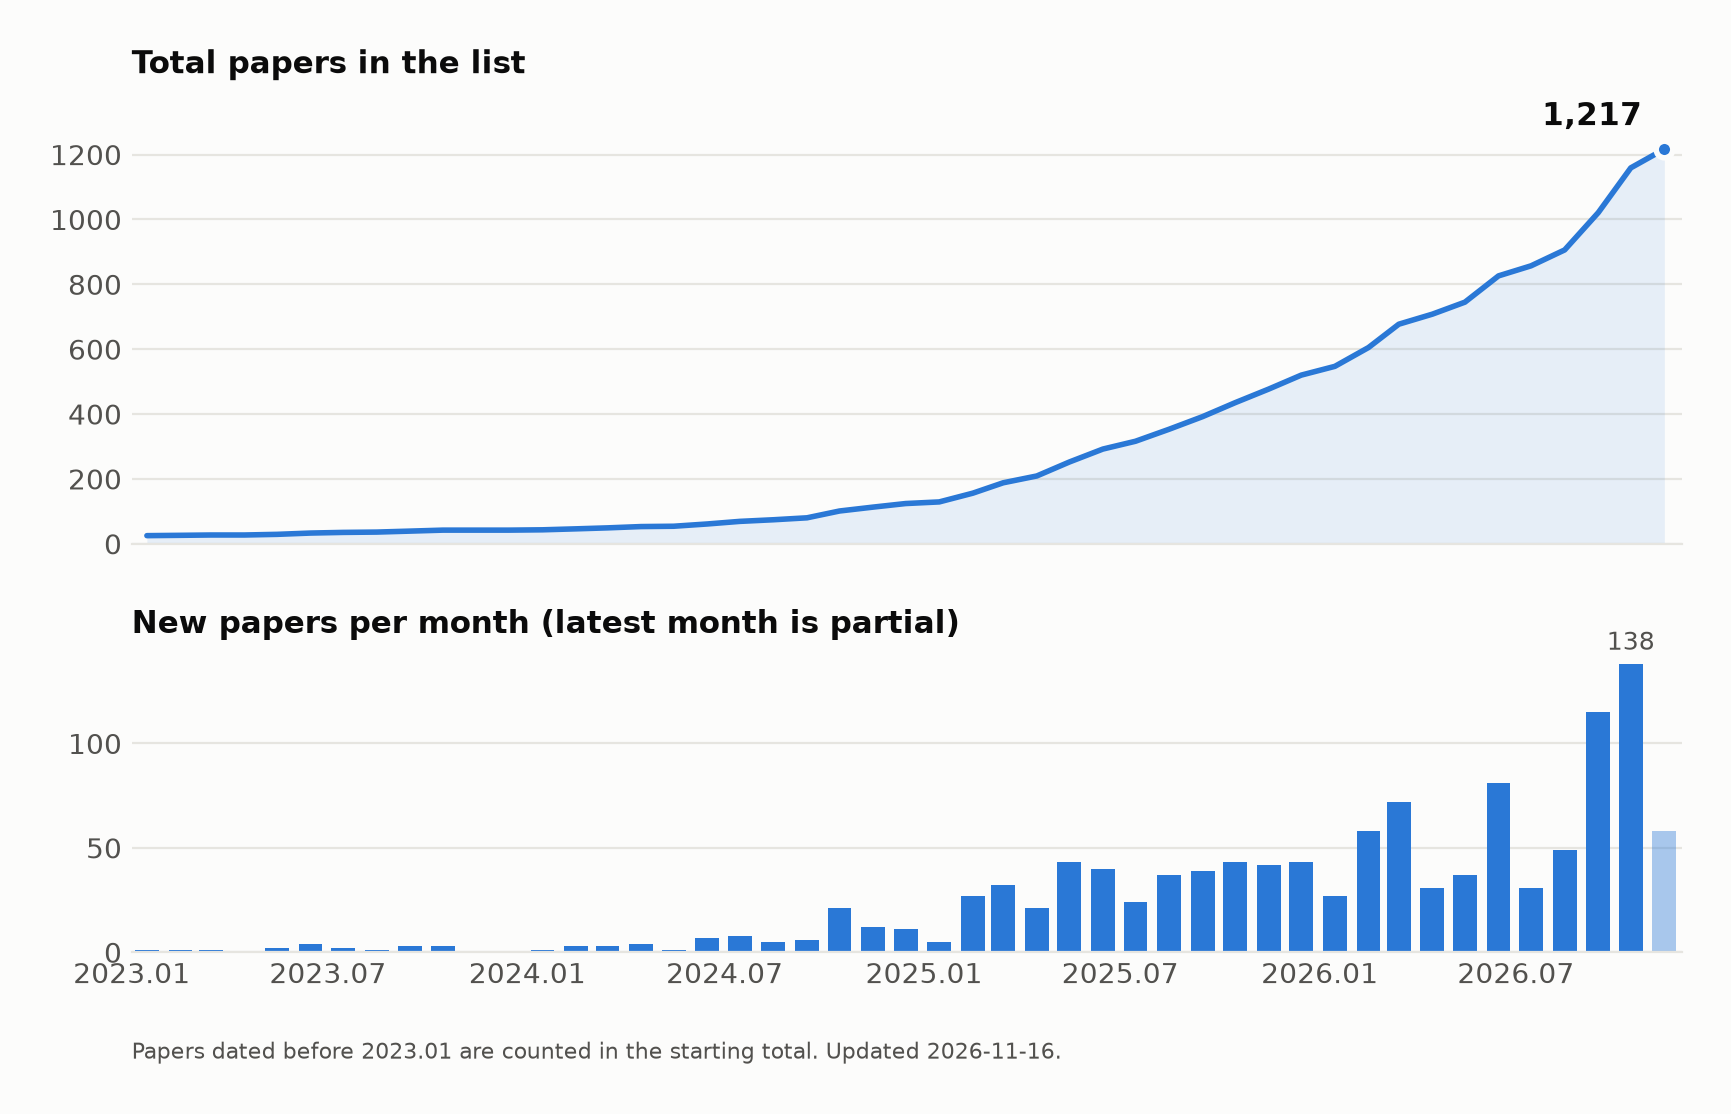
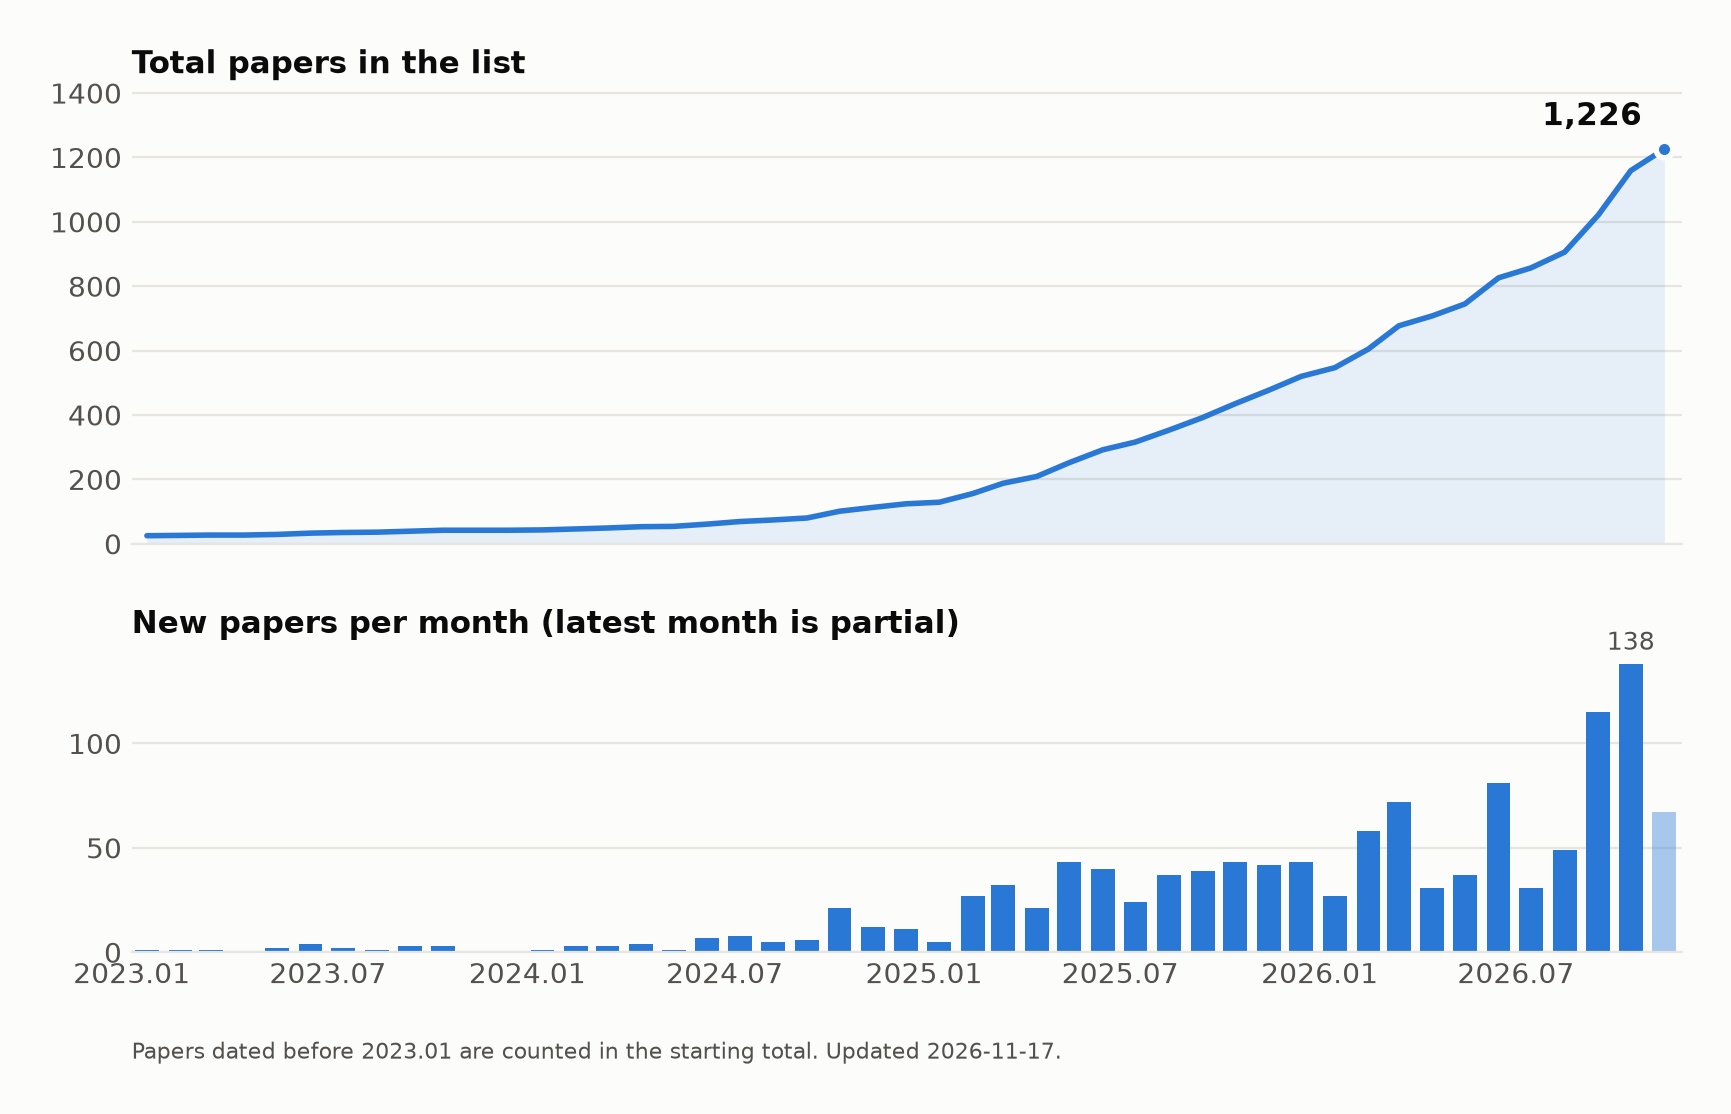
Add 9 papers from arXiv (2026-11-17)

diff --git a/README.md b/README.md
@@ -28,6 +28,9 @@ Feel free to pull a request for new papers/codes about humanoid robot learning.
 ---
 
 ## Loco-Manipulation and Whole-Body-Control
+- [arXiv 2026.11.16](https://arxiv.org/abs/2611.20791), QTOP: Scaling Humanoid Motion Tracking with Quantile Critics
+- [arXiv 2026.11.16](https://arxiv.org/abs/2611.20452), XMimic and XSoma: Learning Humanoid Motion Tracking and Locomotion in Under a Minute
+- [arXiv 2026.11.14](https://arxiv.org/abs/2611.19196), Ego2Sim2Humanoid: Agentic Real-to-Sim for Learning Loco-Manipulation VLAs without Robot Demonstrations, [website](https://robonana.github.io/ego2sim2humanoid/)
 - [arXiv 2026.11.12](https://arxiv.org/abs/2611.17142), FORGE: Force-Aware Multi-Granularity Control for Efficient Humanoid Loco-Manipulation, [website](https://bb0928.github.io/forge/)
 - 🌟[arXiv 2026.11.12](https://arxiv.org/abs/2611.16422), BlinkMimic: Training a Humanoid Motion Tracker in Minutes on a Single GPU, [code](https://github.com/fuyichen0725/blinkmimic)
 - [arXiv 2026.11.12](https://arxiv.org/abs/2611.16188), PERA: Plug-in Experts for Robotic Actions in Continual Whole-Body Control
@@ -551,6 +554,7 @@ Feel free to pull a request for new papers/codes about humanoid robot learning.
 - [2024.08](https://la.disneyresearch.com/publication/vmp-versatile-motion-priors-for-robustly-tracking-motion-on-physical-characters/), VMP: Versatile Motion Priors for Robustly Tracking Motion on Physical Characters, [website](https://la.disneyresearch.com/publication/vmp-versatile-motion-priors-for-robustly-tracking-motion-on-physical-characters/)
 - [2024.07](https://la.disneyresearch.com/publication/robot-motion-diffusion-model-motion-generation-for-robotic-characters/), Robot Motion Diffusion Model: Motion Generation for Robotic Characters,
 ## Manipulation
+- [arXiv 2026.11.13](https://arxiv.org/abs/2611.18976), TMA: Sim-to-Real Forceful Humanoid Manipulation via Tactile-Driven Motor Adaptation
 - [arXiv 2026.11.13](https://arxiv.org/abs/2611.18491), When Will You Hand It Over? A Hidden Start Delay Makes Self-Play Handover Robust to Unfamiliar Partners
 - [Humanoids 2026](https://arxiv.org/abs/2611.12409), Bridging Task Planning and Execution for Language-Conditioned Bimanual Manipulation
 - [arXiv 2026.11](https://arxiv.org/abs/2611.11981), Thermo-VLA: A Thermal-Aware Vision-Language-Action Model with Gated Residual Modulation for Robotic Manipulation
@@ -660,6 +664,7 @@ Feel free to pull a request for new papers/codes about humanoid robot learning.
 - [1999](https://www.cell.com/trends/cognitive-sciences/abstract/S1364-6613(99)01327-3), Is imitation learning the route to humanoid robots?
 
 ## Teleoperation
+- [arXiv 2026.11.15](https://arxiv.org/abs/2611.19998), MoViC: Real-Time Humanoid Whole-Body Control from Monocular Video Streams, [website](https://movicproject.github.io/)
 - [arXiv 2026.10](https://arxiv.org/abs/2610.29903), HuMiT: Low-Latency Whole-Body Humanoid Teleoperation via Compact Reference Tracking, [website](https://xiaohu-art.github.io/Track/)
 - [arXiv 2026.10](https://arxiv.org/abs/2610.24257), Evaluating Lightweight Contact Feedback in Dual-Operator Collaborative Humanoid Teleoperation, [website](https://xrt-teleop.github.io)
 - [arXiv 2026.10](https://arxiv.org/abs/2610.07891), Beyond Retargeting: Low-Latency and Robust Humanoid Whole-Body Teleoperation with Learned Atomic Motion Primitives
@@ -724,6 +729,7 @@ Feel free to pull a request for new papers/codes about humanoid robot learning.
 
 
 ## Locomotion
+- [arXiv 2026.11.16](https://arxiv.org/abs/2611.20888), Driving the Style: Velocity-Conditioned Whole-Body Control from Motion Demonstrations
 - [arXiv 2026.11.13](https://arxiv.org/abs/2611.18003), Reusing Locomotion Training Recipes Across Humanoids via Body-Aligned Virtual Joints
 - [arXiv 2026.11.12](https://arxiv.org/abs/2611.16346), MotionSkill: From Bipedal Motion Video to Control across Embodiments
 - [arXiv 2026.11](https://arxiv.org/abs/2611.13929), ReACT: Reflection-Consistent Modulation and Cross-Load Consistency for Humanoid Velocity Tracking Under Asymmetric Loads
@@ -1024,6 +1030,7 @@ Feel free to pull a request for new papers/codes about humanoid robot learning.
 
 
 ## Sim-to-Real
+- [arXiv 2026.11.14](https://arxiv.org/abs/2611.19616), Towards Probabilistically Safe Reinforcement Learning: Theory and Deployment on Humanoid and Aerial Robots
 - [arXiv 2026.11.11](https://arxiv.org/abs/2611.15524), Reading the Table: Sim-to-Real Game State Detection for the Chef's Hat Card Game
 - [arXiv 2026.10](https://arxiv.org/abs/2610.32277), Delay Randomization Widens the Delay Margin of Learned Humanoid Motion Trackers
 - [arXiv 2026.10](https://arxiv.org/abs/2610.18991), Contact-UAN: Unsupervised Actuator Networks as a Residual World Model for Humanoid Control, [website](https://contact-uan.csail.mit.edu/)
@@ -1051,6 +1058,7 @@ Feel free to pull a request for new papers/codes about humanoid robot learning.
 - [arXiv 2019.01](https://arxiv.org/abs/1901.08652), Learning Agile and Dynamic Motor Skills for Legged Robots
 
 ## Hardware Design
+- [arXiv 2026.11.16](https://arxiv.org/abs/2611.20950), ROSE: A Shared Cross-Embodiment Facial-Motion Latent Space for Humanoid Robot Expression
 - [arXiv 2026.11](https://arxiv.org/abs/2611.05302), PACT: Pose-Robust Actuation Co-Design for Tendon-Driven Robotic Hands
 - [RA-L 2026](https://arxiv.org/abs/2611.04334), RAIPAL: A Powerful and Agile Humanoid Arm for Human Tasks
 - [arXiv 2026.10](https://arxiv.org/abs/2610.36789), A fully articulated humanoid dexterous hand with human-level joint structure enabled by linkage-based actuation
@@ -1171,6 +1179,7 @@ Feel free to pull a request for new papers/codes about humanoid robot learning.
 
 ## Physics-Based Character Animation
 - [SIGGRAPH 2010](https://dl.acm.org/doi/abs/10.1145/1833349.1778770?casa_token=j3esx-hx0GAAAAAA:OvRU6YYrNo2ZP9IyXGVDryWJqHmvU-oVhnzog8RFKKySQJjganzaAmHff6CQ4a0qzfJZu-J6Buf4Ug), Spatial relationship preserving character motion adaptation
+- [arXiv 2026.11.14](https://arxiv.org/abs/2611.19153), ImpedanceMimic: Learned Impedance as Action Space for Force-Accurate Motion Imitation, [website](https://impedancemimic.github.io/ImpedanceMimic/)
 - [CoRL 2026](https://arxiv.org/abs/2610.18147), Walk Like This: Stylized Locomotion for Physics-Based Characters through Example-Driven Diffusion
 - 🌟[arXiv 2026.10](https://arxiv.org/abs/2610.14911), Scalable Multi-Human Cooperative Manipulation via Commander-Executor Coordination
 - [arXiv 2026.10](https://arxiv.org/abs/2610.10322), From Digital Human Interactions to Physics-Based Humanoid Skills: Physics-Grounded Post-Training of Interaction Generators
